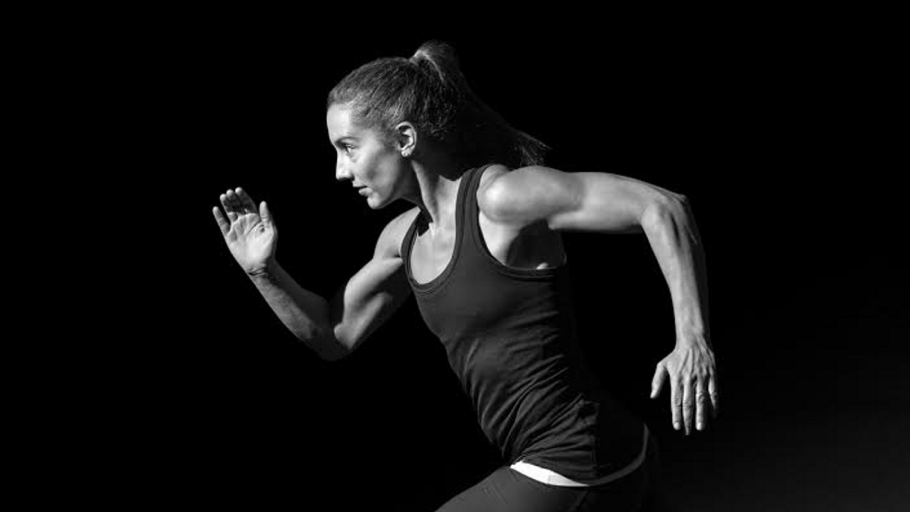
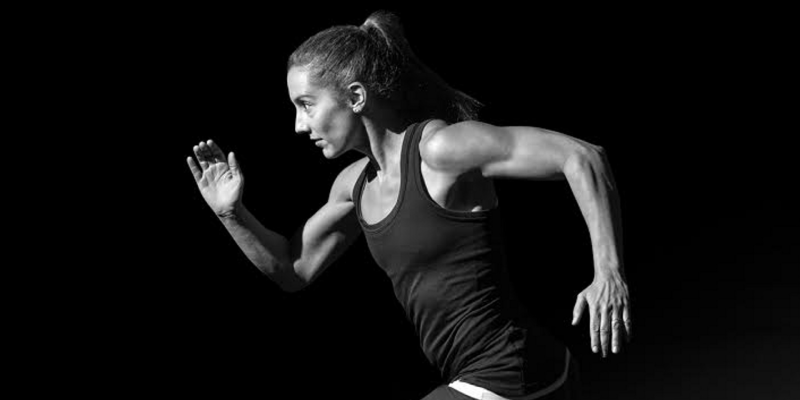
Fixing carousel images to be responsive

diff --git a/index.html b/index.html
@@ -13,39 +13,36 @@ custom_css: "index.css"
     </ol>
     <div class="carousel-inner">
       <div class="carousel-item active">
-        <img class="first-slide d-block w-100" src="/assets/img/welcome-carousel.png" alt="Welcome to Versus">
+        <img class="first-slide" src="/assets/img/welcome-carousel.png" alt="Welcome to Versus">
         <div class="container">
-          <div class="carousel-caption text-left">
+          <div class="carousel-caption">
             <h1>Welcome to Versus</h1>
-            <p>Cras justo odio, dapibus ac facilisis in, egestas eget quam. Donec id elit non mi porta gravida at eget
-              metus. Nullam id dolor id nibh ultricies vehicula ut id elit.</p>
-            <p><a class="btn btn-lg btn-primary" href="#our-programs" role="button">Learn More</a></p>
+            <!-- <p>Where everyone is an athelete.</p> -->
+            <p><a class="btn btn-sm btn-primary" href="#" role="button">Sign up today</a></p>
           </div>
         </div>
       </div>
       <div class="carousel-item">
-        <img class="second-slide d-block w-100" src="/assets/img/redefine-carousel.jpg" alt="Redefine Yourself">
+        <img class="second-slide" src="/assets/img/redefine-carousel.png" alt="Redefine Yourself">
         <div class="container">
           <div class="carousel-caption">
             <h1>Redefine Yourself</h1>
-            <p>Cras justo odio, dapibus ac facilisis in, egestas eget quam. Donec id elit non mi porta gravida at eget
-              metus. Nullam id dolor id nibh ultricies vehicula ut id elit.</p>
-            <p><a class="btn btn-lg btn-primary" href="#" role="button">Learn more</a></p>
+            <p><a class="btn btn-sm btn-primary" href="#" role="button">Learn more</a></p>
           </div>
         </div>
       </div>
       <div class="carousel-item">
-        <img class="third-slide d-block w-100" src="/assets/img/group-carousel.jpg" alt="Third slide">
+        <img class="third-slide" src="/assets/img/group-carousel.png" alt="Third slide">
         <div class="container">
-          <div class="carousel-caption text-right">
+          <div class="carousel-caption">
             <h1>Join our Community</h1>
-            <p>Cras justo odio, dapibus ac facilisis in, egestas eget quam. Donec id elit non mi porta gravida at eget
-              metus. Nullam id dolor id nibh ultricies vehicula ut id elit.</p>
-            <p><a class="btn btn-lg btn-primary" href="#contact-us" role="button">Contact Us</a></p>
+            <!-- <p>More than just a gym.</p> -->
+            <p><a class="btn btn-sm btn-primary" href="#" role="button">Browse gallery</a></p>
           </div>
         </div>
       </div>
     </div>
+    
     <a class="carousel-control-prev" href="#myCarousel" role="button" data-slide="prev">
       <span class="carousel-control-prev-icon" aria-hidden="true"></span>
       <span class="sr-only">Previous</span>
@@ -61,14 +58,14 @@ custom_css: "index.css"
     <!-- Three columns of text below the carousel -->
     <div id="our-programs" class="row" >
       <div class="col-lg-4">
-        <img src="/assets/img/fire-emoji.png" alt="Generic placeholder image" width="140" height="140">
+        <img src="/assets/img/fire-emoji.png" alt="Bootcamp image" width="140" height="140">
         <h2>Boot Camps</h2>
         <p>A 6 week program designed to jump start your fitness in a dynamic, outdoor setting. You will receive guidance
           on proper nutrition, movement techniques, and workouts that are progressively more challenging.</p>
         <p><a class="btn btn-secondary" href="#bootcamp-featurette" role="button">View details &raquo;</a></p>
       </div><!-- /.col-lg-4 -->
       <div class="col-lg-4">
-        <img src="/assets/img/running-emoji.jpg" alt="Generic placeholder image" width="140" height="140">
+        <img src="/assets/img/running-emoji.jpg" alt="Outdoor workout image" width="140" height="140">
         <h2>Outdoor</h2>
         <p>Year-round, boot camp style workouts located at outdoor locations in and around Hattiesburg. These classes
           offer athletes of all levels a constantly varied workout utilizing high-intensity interval training,
@@ -77,7 +74,7 @@ custom_css: "index.css"
         <p><a class="btn btn-secondary" href="#outdoor-featurette" role="button">View details &raquo;</a></p>
       </div><!-- /.col-lg-4 -->
       <div class="col-lg-4">
-        <img src="/assets/img/weightlifting-emoji.png" alt="Generic placeholder image" width="140" height="140">
+        <img src="/assets/img/weightlifting-emoji.png" alt="Indoor workout image" width="140" height="140">
         <h2>Indoor</h2>
         <p>Training focused on short but intense sessions comprised of the basic everyday movements; pushing, pulling,
           squatting, and lifting. Incorporates barbells and strength training under supervision of our experienced

diff --git a/assets/css/index.css b/assets/css/index.css
@@ -12,28 +12,31 @@ body {
   /* CUSTOMIZE THE CAROUSEL
   -------------------------------------------------- */
   
-  /* Carousel base class */
-  .carousel {
-    margin-bottom: 4rem;
-  }
-  /* Since positioning the image, we need to help out the caption */
-  .carousel-caption {
-    bottom: 3rem;
-    z-index: 10;
-  }
-  
-  /* Declare heights because of positioning of img element */
-  .carousel-item {
-    height: 1080px;
-    background-color: #777;
-  }
-  .carousel-item > img {
-    position: absolute;
-    top: 0;
-    left: 0;
-    min-width: 100%;
-    height: 1080px;
-  }
+
+/* Carousel base class */
+.carousel {
+  margin-bottom: 4rem;
+}
+/* Since positioning the image, we need to help out the caption */
+.carousel-caption {
+  bottom: 3rem;
+  z-index: 10;
+}
+
+/* Declare heights because of positioning of img element */
+.carousel-item {
+  /* height: 32rem; */
+  width: 100%;
+}
+.carousel-item > img {
+  /* position: absolute; */
+  top: 0;
+  left: 0;
+  min-width: 100%;
+  width: 100%;
+  /* height: 32rem; */
+}
+
   
   
   /* MARKETING CONTENT
